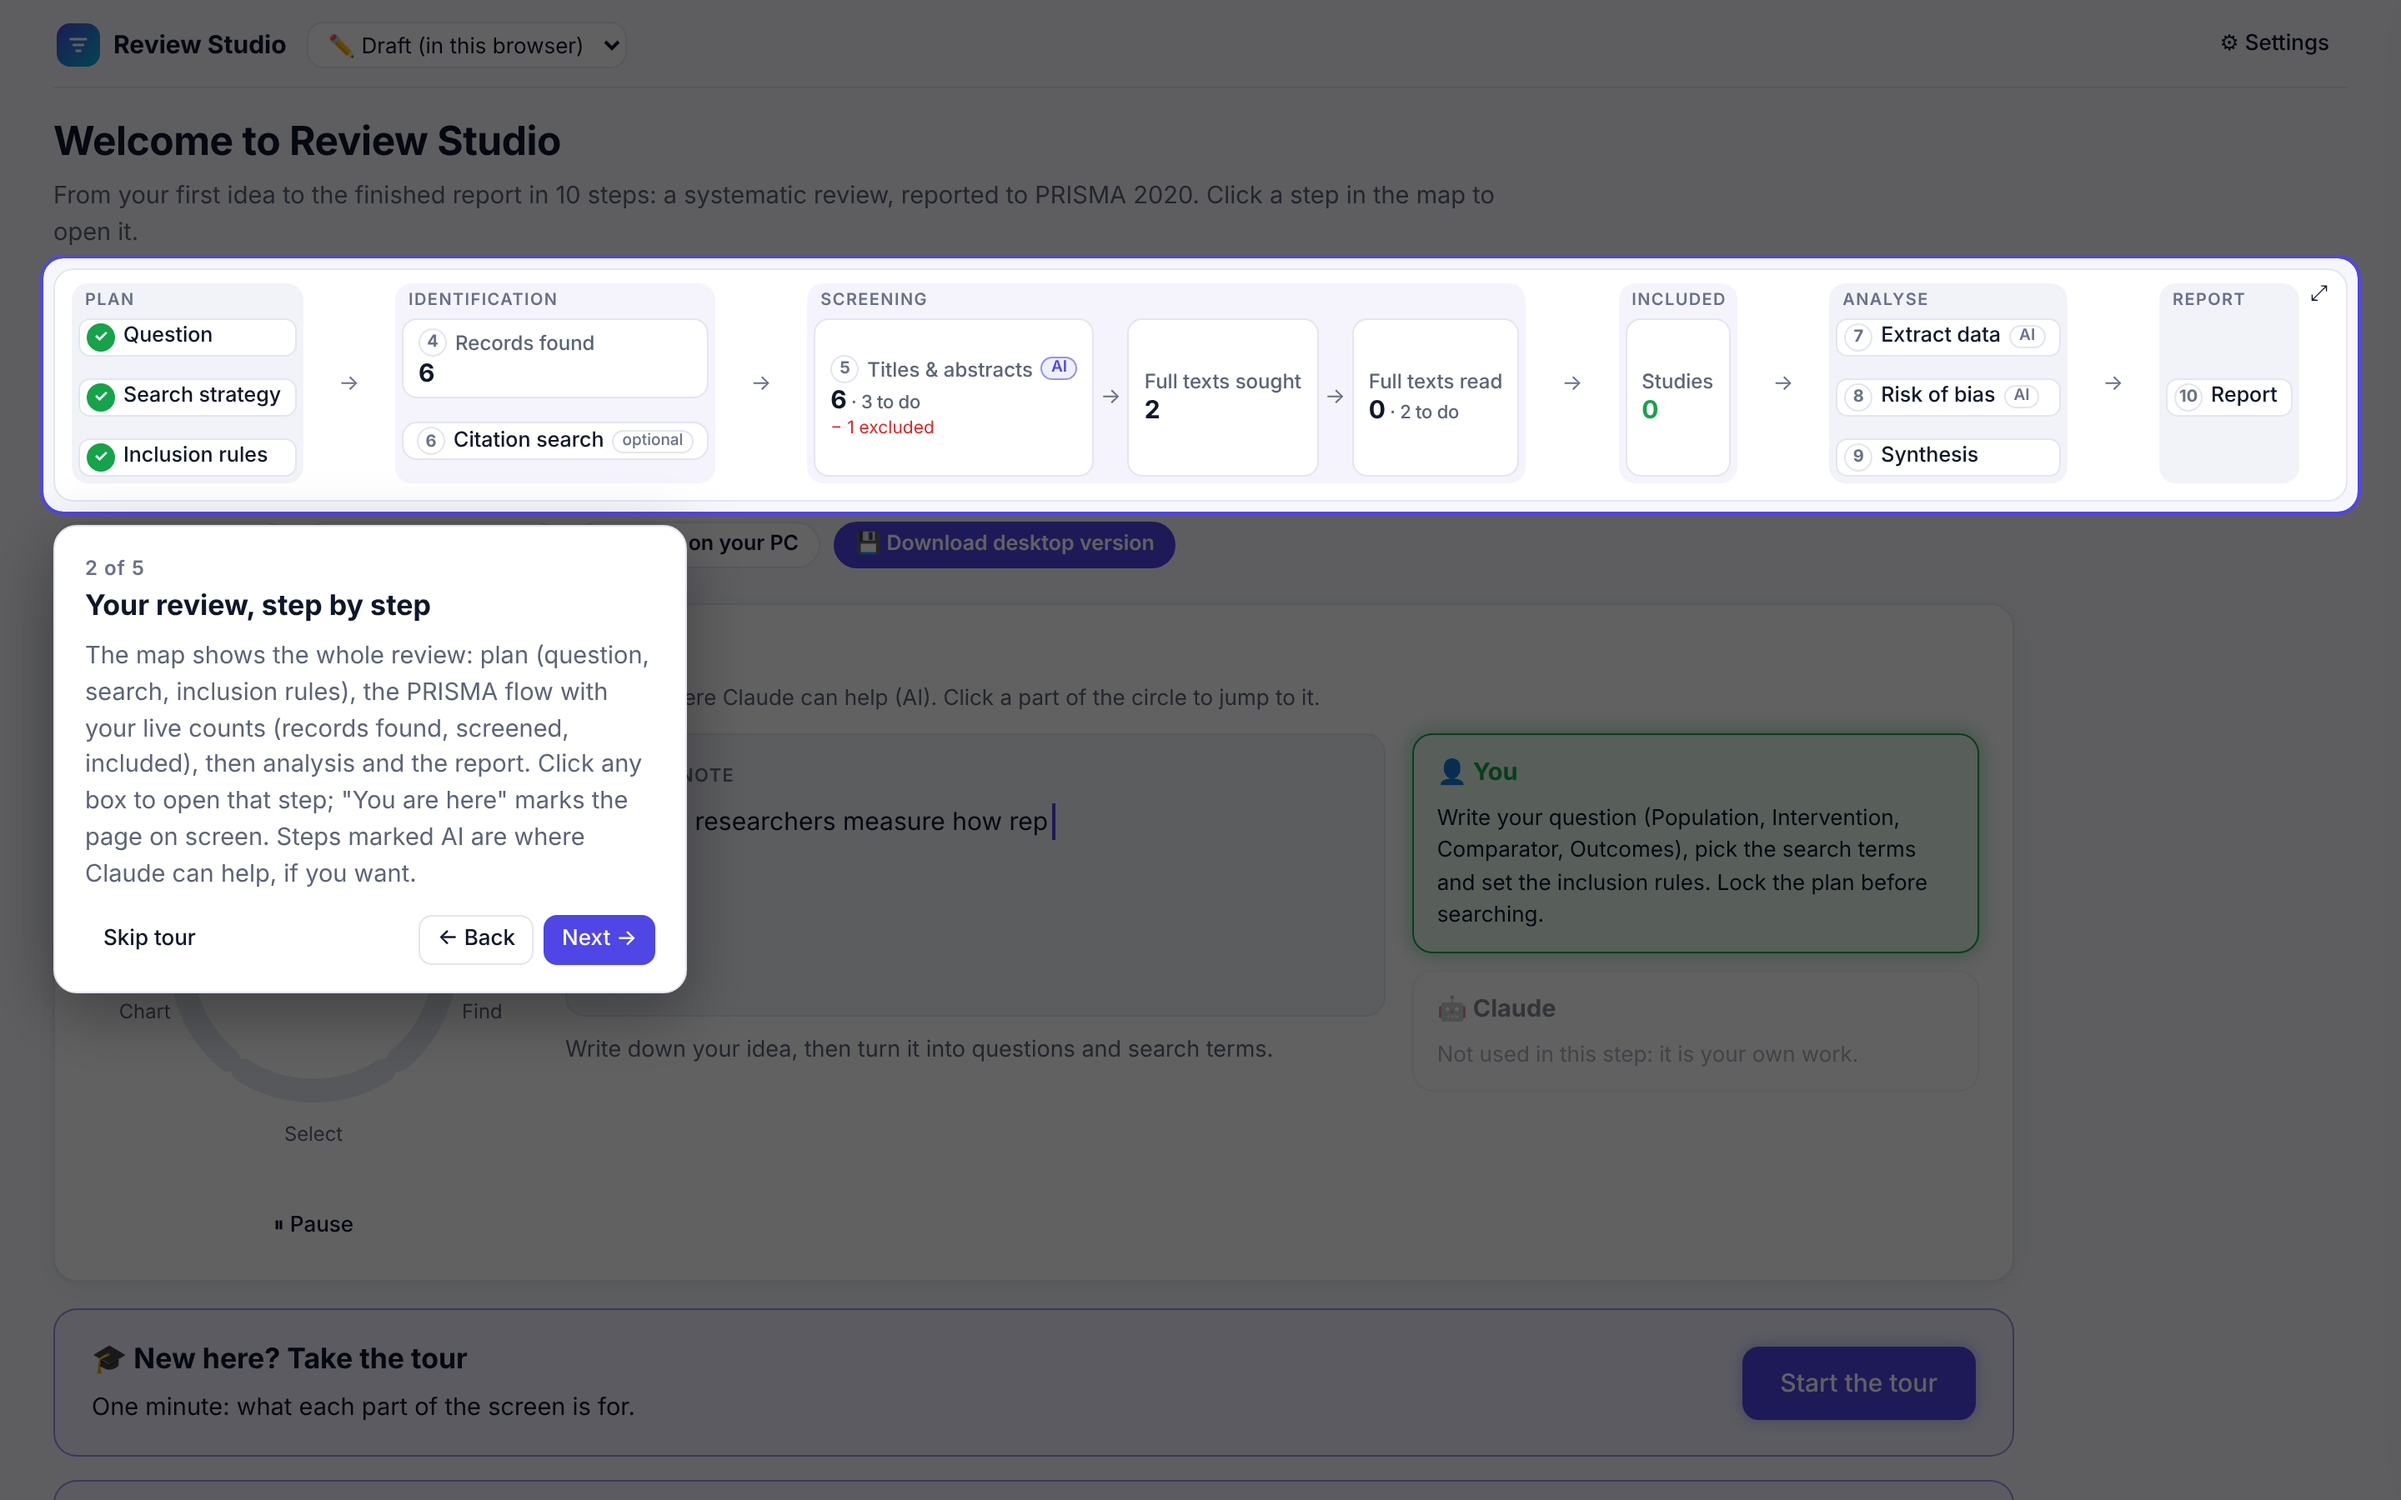
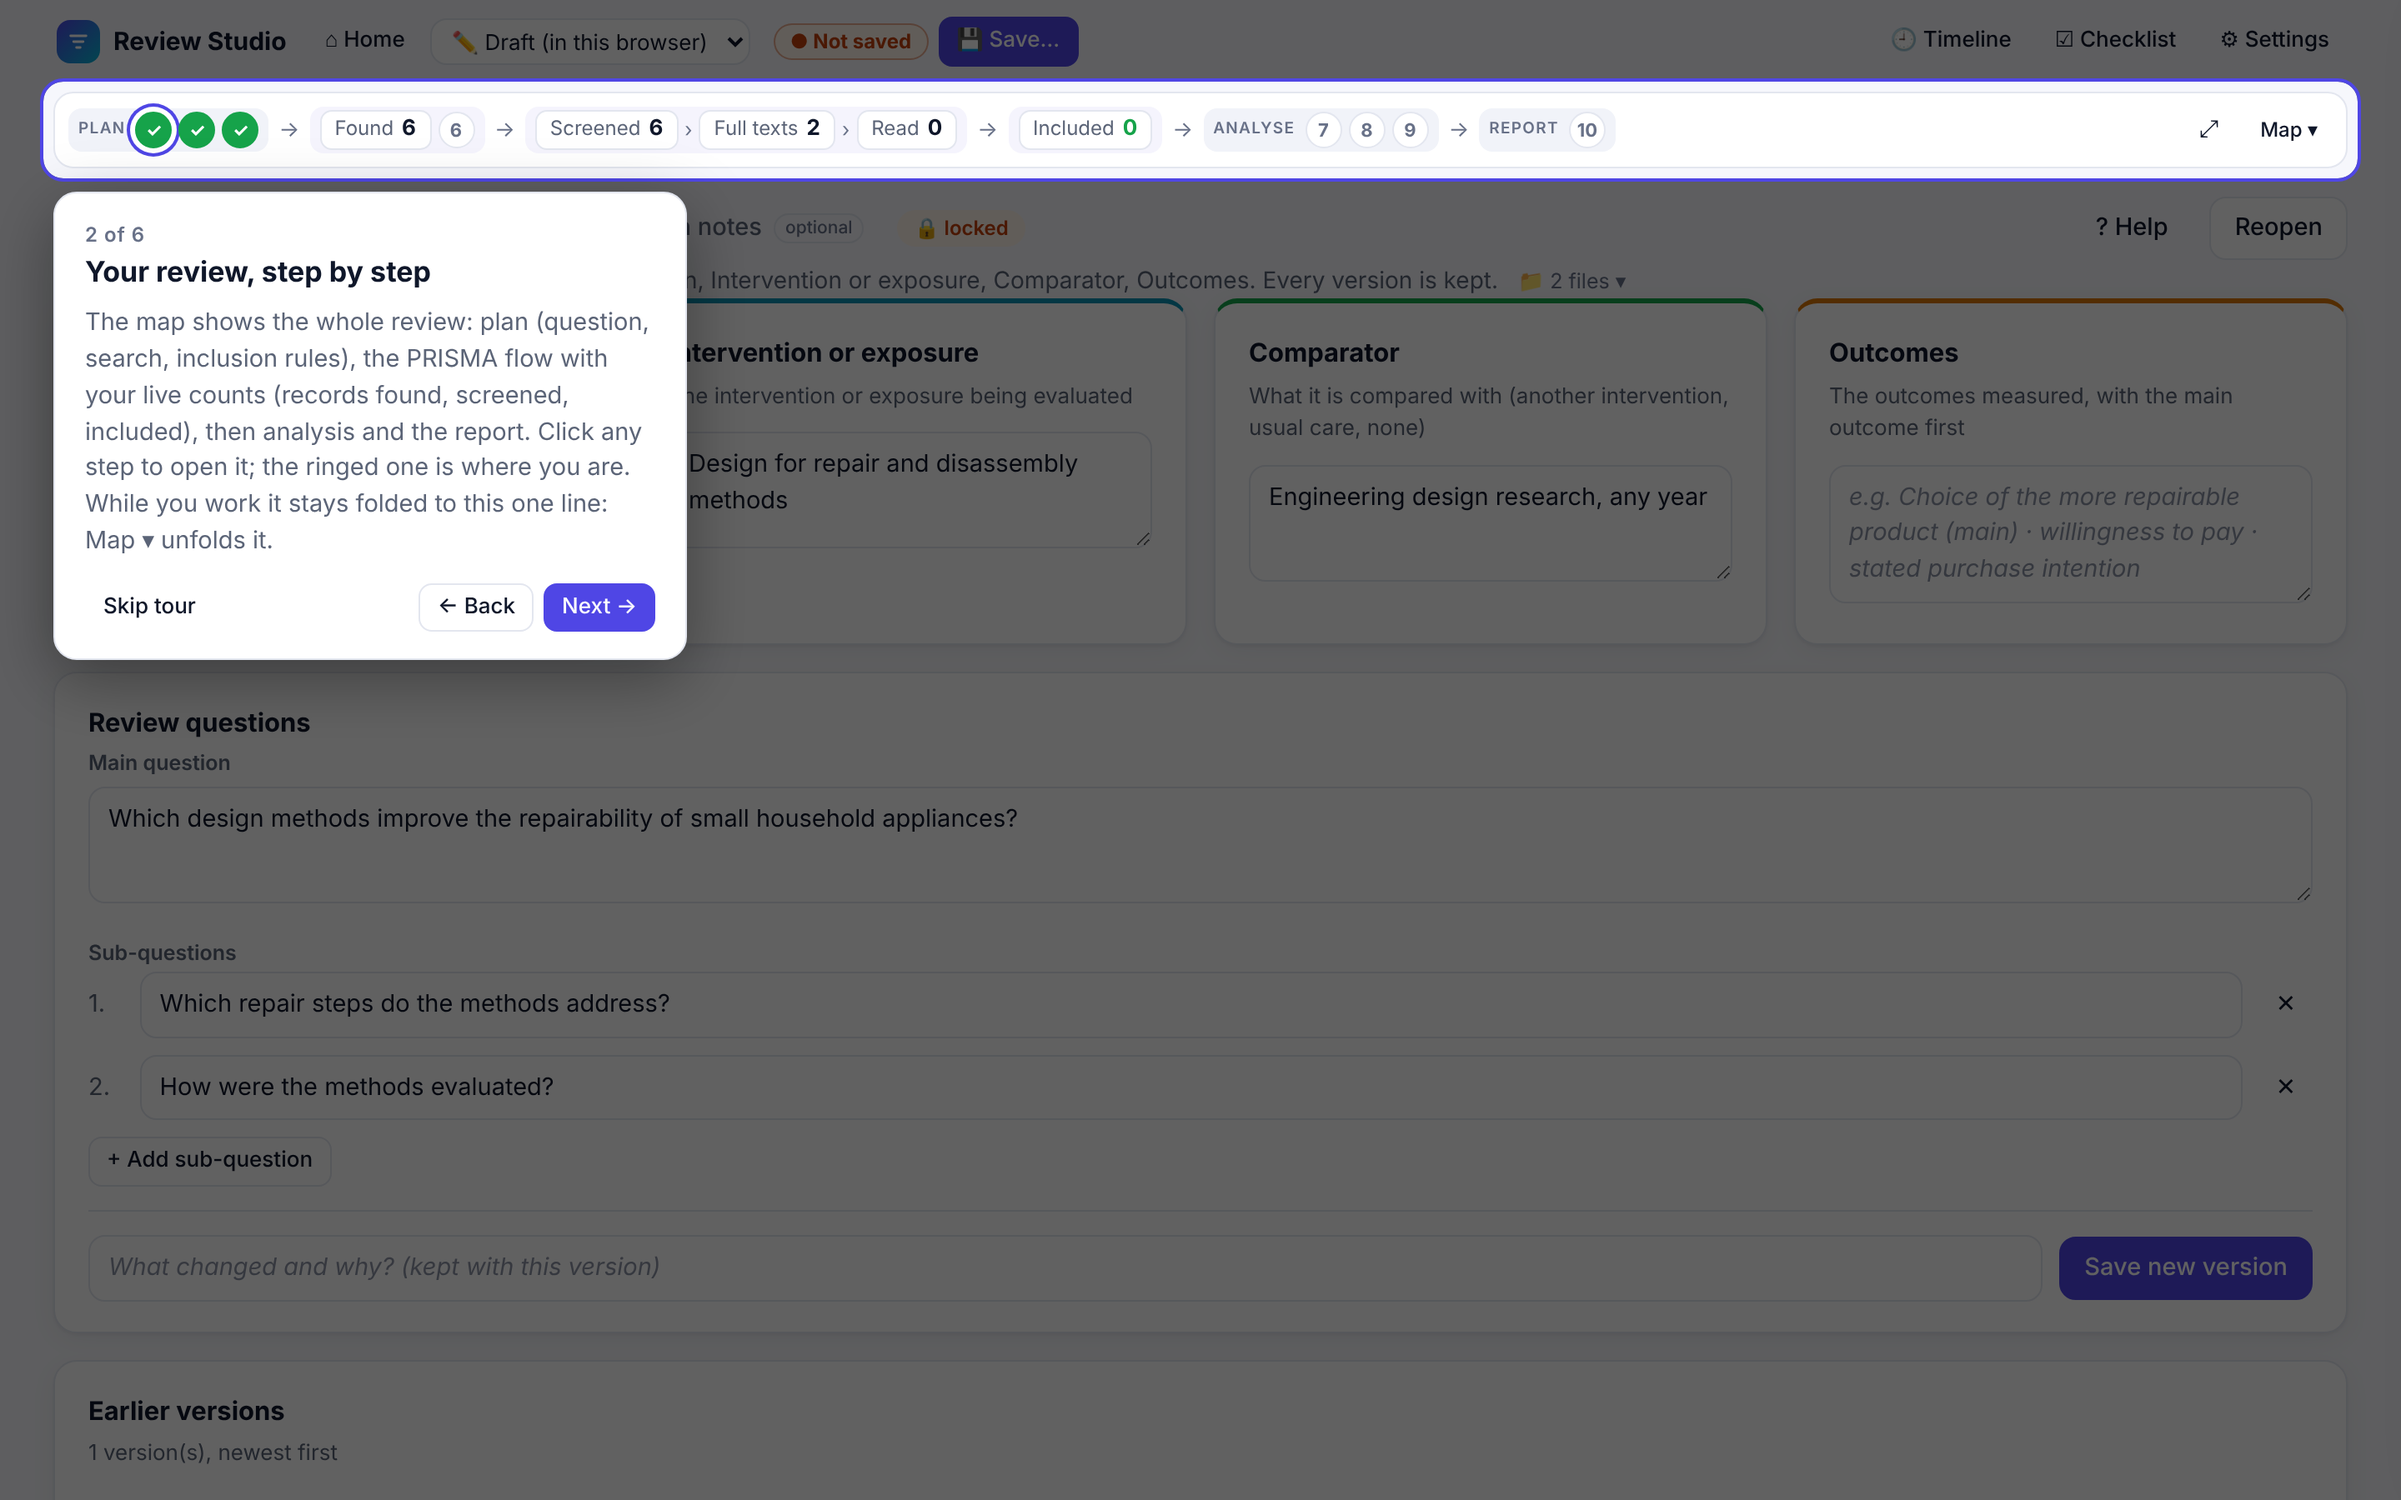
Tour: the folded map; README tour picture
Claude-Session: https://claude.ai/code/session_01F7zC9zifhcduysfsarhzy1

diff --git a/web/review-studio.js b/web/review-studio.js
@@ -2091,7 +2091,7 @@ const TOUR = [
   { title: "Welcome to Review Studio 👋",
     text: "This app guides you through a systematic review, step by step: from your first idea to a finished PRISMA report. It keeps every step documented, so your review is transparent and easy to reproduce." },
   { target: ".flowmap", title: "Your review, step by step",
-    text: "The map shows the whole review: plan (question, search, inclusion rules), the PRISMA flow with your live counts (records found, screened, included), then analysis and the report. Click any box to open that step; \"You are here\" marks the page on screen. Steps marked AI are where Claude can help, if you want." },
+    text: "The map shows the whole review: plan (question, search, inclusion rules), the PRISMA flow with your live counts (records found, screened, included), then analysis and the report. Click any step to open it; the ringed one is where you are. While you work it stays folded to this one line: Map ▾ unfolds it." },
   { target: "#topbar", title: "One step at a time",
     text: "Some steps have tabs for their parts. Each page says what to do; ? Help explains the method with a filled-in example, ✓ Mark done ticks it off, and Next at the bottom takes you on." },
   { target: "#draftBar", title: "Your files stay on your PC",
